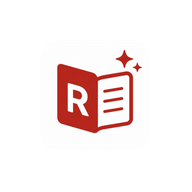
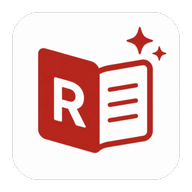
PWAアイコンを透過角丸のまま再生成

diff --git a/scripts/generate-pwa-icons.py b/scripts/generate-pwa-icons.py
@@ -1,5 +1,5 @@
 #!/usr/bin/env python3
-"""icon_rakumanual.png から PWA・favicon・アプリ内ロゴを生成する"""
+"""icon_rakumanual.png（透過・角丸）から PWA・favicon・アプリ内ロゴを生成する"""
 from pathlib import Path
 from PIL import Image
 
@@ -7,7 +7,6 @@ ROOT = Path(__file__).resolve().parents[1]
 SRC = ROOT / "app" / "public" / "icon_rakumanual.png"
 OUT_PUBLIC = ROOT / "app" / "public"
 OUT_LOGO = ROOT / "app" / "src" / "assets" / "logo.png"
-BG = (255, 255, 255)
 
 
 def load_logo() -> Image.Image:
@@ -16,38 +15,34 @@ def load_logo() -> Image.Image:
     return Image.open(SRC).convert("RGBA")
 
 
-def composite_icon(logo: Image.Image, size: int, logo_ratio: float, filename: Path) -> None:
-    canvas = Image.new("RGB", (size, size), BG)
-    logo_size = int(size * logo_ratio)
+def resize_icon(logo: Image.Image, size: int, filename: Path, scale: float = 1.0) -> None:
+    """透過背景を保持したままリサイズ（白背景は合成しない）"""
+    canvas = Image.new("RGBA", (size, size), (0, 0, 0, 0))
+    logo_size = max(1, int(size * scale))
     scaled = logo.resize((logo_size, logo_size), Image.Resampling.LANCZOS)
     offset = ((size - logo_size) // 2, (size - logo_size) // 2)
     canvas.paste(scaled, offset, scaled)
     canvas.save(filename, "PNG", optimize=True)
 
 
-def save_logo(logo: Image.Image, size: int, filename: Path) -> None:
-    filename.parent.mkdir(parents=True, exist_ok=True)
-    resized = logo.resize((size, size), Image.Resampling.LANCZOS)
-    # UI ロゴは透過を保持（角丸アイコンをそのまま表示）
-    resized.save(filename, "PNG", optimize=True)
-
-
 def main() -> None:
     logo = load_logo()
 
-    composite_icon(logo, 32, 0.82, OUT_PUBLIC / "favicon.png")
-    composite_icon(logo, 48, 0.82, OUT_PUBLIC / "favicon-48.png")
-    composite_icon(logo, 180, 0.78, OUT_PUBLIC / "apple-touch-icon.png")
-    composite_icon(logo, 192, 0.72, OUT_PUBLIC / "pwa-192.png")
-    composite_icon(logo, 512, 0.72, OUT_PUBLIC / "pwa-512.png")
-    # maskable: セーフゾーン内に収める（中央80%）
-    composite_icon(logo, 192, 0.58, OUT_PUBLIC / "pwa-192-maskable.png")
-    composite_icon(logo, 512, 0.58, OUT_PUBLIC / "pwa-512-maskable.png")
-    composite_icon(logo, 512, 0.72, OUT_PUBLIC / "icon.png")
+    # 角丸アイコンをそのまま各サイズに縮小
+    resize_icon(logo, 32, OUT_PUBLIC / "favicon.png")
+    resize_icon(logo, 48, OUT_PUBLIC / "favicon-48.png")
+    resize_icon(logo, 180, OUT_PUBLIC / "apple-touch-icon.png")
+    resize_icon(logo, 192, OUT_PUBLIC / "pwa-192.png")
+    resize_icon(logo, 512, OUT_PUBLIC / "pwa-512.png")
+    resize_icon(logo, 512, OUT_PUBLIC / "icon.png")
+    # maskable: 円形マスク対策でわずかに縮小（透過は維持）
+    resize_icon(logo, 192, OUT_PUBLIC / "pwa-192-maskable.png", scale=0.88)
+    resize_icon(logo, 512, OUT_PUBLIC / "pwa-512-maskable.png", scale=0.88)
 
-    save_logo(logo, 256, OUT_LOGO)
+    OUT_LOGO.parent.mkdir(parents=True, exist_ok=True)
+    resize_icon(logo, 256, OUT_LOGO)
 
-    print("Generated icons:")
+    print("Generated transparent icons:")
     for path in sorted(OUT_PUBLIC.glob("*.png")):
         if path.name != "icon_rakumanual.png":
             print(f"  {path.relative_to(ROOT)}")
